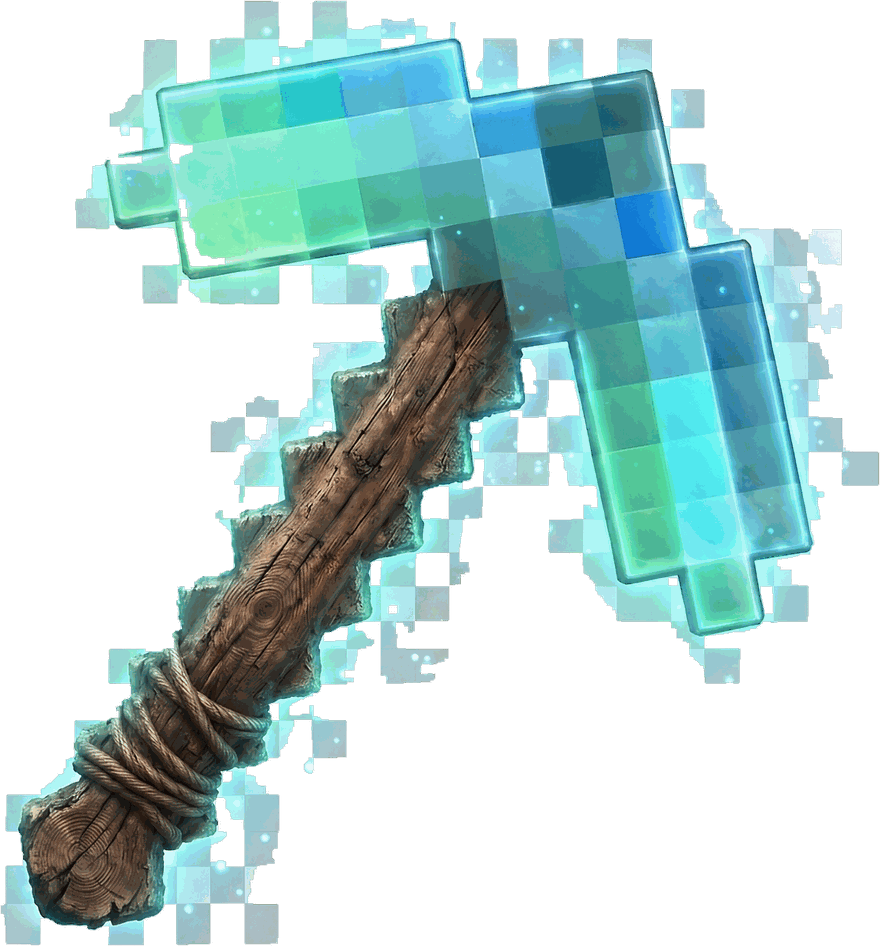
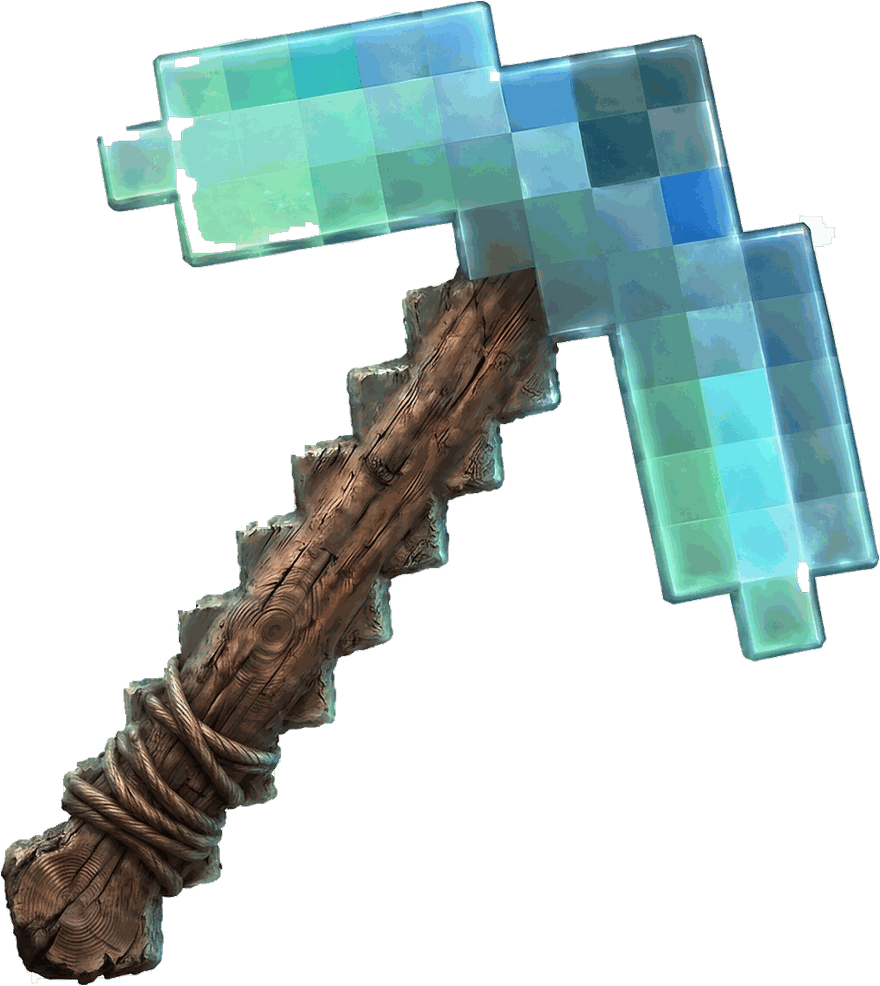
feat(hero): 主图换去光效版（880×986/133KB）+ 同步宽高占位
- pickaxe.png 替换去光效版（无青色辉光雾），PNG256 量化 133.5KB
- index.tsx Hero 主图 width/height 400×430 -> 400×448，消除 CLS 漂移
- AGENTS.md/DESIGN.md/docs/hero-art 主图规格与来源同步
- 本地实机验证：natural 880x986 / attrWH 400x448 / aspectDrift 0 / errors none

diff --git a/app/src/routes/index.tsx b/app/src/routes/index.tsx
@@ -63,7 +63,7 @@ export default component$(() => {
           alt="水晶镐插画"
           class="mc-hero-art justify-self-end"
           width={400}
-          height={430}
+          height={448}
           loading="eager"
           decoding="async"
         />

diff --git a/AGENTS.md b/AGENTS.md
@@ -137,8 +137,10 @@ gh api repos/GuoxinL/guoxin.space/pages/builds/latest --jq '.status'
 - 主题变量：`--violet-*`（主色 `#A053FE`）/ `--sky-*`（强调 `#00B5F1`）/ `--slate-*`（中性 `#293749`）/ `--shadow-*`（偏移阴影）。旧的 `--bg/--surface/--text/--primary/--radius/--shadow` 等为**兼容别名**，Skills / JSON / Running 三页零改动继承皮肤。暗色主题只覆盖变量，不写组件选择器。
 - 字体（本地自托管，无第三方请求）：`app/public/fonts/press-start-2p-latin.woff2`（4.7KB，街机像素显示字，用于 Hero/H1-H3/导航/按钮，CSS 名 `Press Start 2P`）、`app/public/fonts/fusion-pixel-12px-zh_hans.woff2`（661KB，中文标题回退，CSS 名 `Fusion Pixel 12px`）。**正文用系统无衬线**（`--font`），不用像素字；位图图标保留 `image-rendering: pixelated`。
 - 像素图标：`app/src/components/pixel/PixelIcon.tsx`（16×16 网格，纯矩形 path，`shape-rendering: crispEdges`）；终端命令框 `TerminalBox.tsx`（官网同款窗口装饰 + 复制按钮）。新增图标往 `ICONS` 里加，不要引入图标库。
-- **Hero 主图：`app/public/img/pickaxe.png`**（Hero 右侧，`drop-shadow: 6px 6px 0`，`width: clamp(200px,30vw,400px)`）。**这张图不做像素化**——源图是带水晶切面与木纹的精绘素材，早期 `--grid 60` 把 2040px 压成 60 格（信息量仅约 3%）导致发糊，已改回**保真路线**。
-  - 当前规格：880×946（≈2.2× 最大显示宽 400px，覆盖 2x 视网膜），LANCZOS 直缩 + `PIL quantize(colors=256, method=FASTOCTREE)` → **143KB**（未量化 758KB）。
+- **Hero 主图：`app/public/img/pickaxe.png`**（Hero 右侧，`drop-shadow: 6px 6px 0`，`width: clamp(200px,30vw,400px)`）。**这张图不做额外像素化**——源图本身就是像素方块风格（水晶镐头由清晰色块构成），早期 `--grid 60` 把 2040px 压成 60 格（信息量仅约 3%）反而发糊，已改回**保真路线**（LANCZOS 直缩）。
+  - 当前规格：**880×986**（≈2.2× 最大显示宽 400px，覆盖 2x 视网膜），LANCZOS 直缩 + `PIL quantize(colors=256, method=FASTOCTREE)` → **133KB**（未量化 693KB）。
+  - 素材来源：`MC镐子_K2去光效_p3_4K_透明.png`（3840×2160 真 RGBA；**去光效版**，无青色辉光雾）。裁切后 1820×2040，**aspect 0.892**。
+  - ⚠ **换图必须同步 `index.tsx` 的 `width/height`**：它们是 CLS 占位，须匹配真实宽高比。当前 880×986 → 显示宽 400 时 **`width={400} height={448}`**（上一版 880×946 对应 height=430）。计算公式 `height ≈ round(400 × 原图高 / 原图宽)`。
   - 重新出图：`python tools/pixel-art/render-hero-variants.py <源RGBA PNG> --outdir <目录> --hi-width 880 --grids 200,140,60`，会产出 hi / grid200 / grid140 / grid60 四档供比选（`hi` 为推荐档）。
   - 平滑图**不要**给 `.mc-hero-art` 加 `image-rendering: pixelated`（降采样会产生锯齿）；只有真正像素化的素材才加。
   - `pickaxe-src.png` 已删除（旧像素化流程的副产物，且会以 2.9MB 体积混进 `app/public/` 被部署）。

diff --git a/DESIGN.md b/DESIGN.md
@@ -20,7 +20,7 @@
 - 圆角**只保留在交互控件**：按钮 `10px`、终端框 `10px`；容器一律 `0`
 - 高光 = 标题的 **shimmer 流光渐变**（紫 → 天蓝 → 紫，横向平移）
 - Hero **不用面板底色**（V2 去容器化），仅靠 `border-bottom: 1px solid var(--slate-5)` 界定区块；保留绝对定位的旋转装饰图标
-- 背景大图为**透明 PNG 水晶镐插画**（`app/public/img/pickaxe.png`，880×946 / 143KB），Hero 右侧，`drop-shadow: 6px 6px 0`。源图为**像素艺术风格**——4K 原图即块状笔触，缩放到显示尺寸后仍保留像素块观感，这是**原图特征而非渲染锯齿**。**不要**给它加 `image-rendering: pixelated`。
+- 背景大图为**透明 PNG 水晶镐插画**（`app/public/img/pickaxe.png`，880×986 / 133KB，去光效版），Hero 右侧，`drop-shadow: 6px 6px 0`。源图为**像素方块风格**——4K 原图即清晰色块构成，缩放到显示尺寸后仍保留方块观感，这是**原图特征而非渲染锯齿**。**不要**给它加 `image-rendering: pixelated`。
 
 ---
 
@@ -359,7 +359,7 @@ V2：**不再用药丸**。改为「前置 6px 方块 + 字距加宽」的极简
    > 生成 `.mc-nav`：高 64px、`border-bottom: 1.6px solid #BDCEE2`、白底、sticky `z-index: 99999`；导航项圆角 10px、11px 像素字、hover 底 `#E2EEFB`；激活项紫底白字 + `2px 2px 0` 紫阴影。
 
 4. **Hero 区块**
-   > 生成 Hero（V2 去容器化）：**无面板底色、无描边、无阴影、无圆角**，`padding: 48px 0 44px` + `border-bottom: 1px solid var(--slate-5)`，两列 `1fr auto` / `gap: 48px`；左侧 H1 44px Press Start 2P + shimmer 渐变（紫→天蓝→紫横向平移 6s），下方副标题与两个按钮，再下方是终端命令框；右侧透明 PNG 水晶镐插画 `pickaxe.png`（880×946），`drop-shadow: 6px 6px 0`。**不要**给它加 `image-rendering: pixelated`。
+   > 生成 Hero（V2 去容器化）：**无面板底色、无描边、无阴影、无圆角**，`padding: 48px 0 44px` + `border-bottom: 1px solid var(--slate-5)`，两列 `1fr auto` / `gap: 48px`；左侧 H1 44px Press Start 2P + shimmer 渐变（紫→天蓝→紫横向平移 6s），下方副标题与两个按钮，再下方是终端命令框；右侧透明 PNG 水晶镐插画 `pickaxe.png`（880×986），`drop-shadow: 6px 6px 0`。**不要**给它加 `image-rendering: pixelated`。
 
 5. **终端命令框**
    > 生成 `.mc-term`（V2）：深底 `#010B1A`、圆角 10px、**无描边无阴影**（保留深色「窗口」语义即可，深底在浅色背景上已足够成立）；顶部 27px 标题栏 `#D7F1FF` 带三个圆点（红/黄/绿）；命令区等宽字 `#7CE7FF`，提示符天蓝，右侧复制按钮。

diff --git a/docs/hero-art/README.md b/docs/hero-art/README.md
@@ -1,4 +1,4 @@
-# Hero 主图档位存档（2026-09-10）
+# Hero 主图档位存档（2026-09-10 建档 / 2026-09-12 换图）
 
 本目录保存首页 Hero 主图 `app/public/img/pickaxe.png` 的**保真度档位比选产物**，供日后换图时对照参考。
 
@@ -7,14 +7,14 @@
 早期用 `tools/pixel-art/pixelize-alpha-pickaxe.py --grid 60` 把源图（裁切后 1897×2040）压成 60 格，
 每格约 34 个原始像素被平均成 1 块 → **信息量仅剩约 3%**，页面观感即「糊的色块」。
 
-源图是带**水晶切面 + 木纹**的精绘素材，像素化等于抹掉其全部卖点，属把精绘当低像素素材处理的方法论错误。
-已改为**保真路线**。
+源图是**像素方块风格**（水晶镐头由清晰色块构成），再像素化等于把已有方块又降采样一遍，
+属把素材当低像素文件处理的方法论错误。已改为**保真路线**。
 
 ## 档位数据
 
 | 文件 | 档位 | 尺寸 | 体积 | 说明 |
 |---|---|---|---|---|
-| （已上线）`app/public/img/pickaxe.png` | ✅ 已采用 | 880×946 | 143 KB | LANCZOS 直缩 + PNG 256 色量化；细节完整。本目录不再另存副本 |
+| （已上线）`app/public/img/pickaxe.png` | ✅ 已采用 | 880×986 | 133 KB | LANCZOS 直缩 + PNG 256 色量化；细节完整。本目录不再另存副本 |
 | `v-grid200.png` | 备选 | 930×1000 | 75 KB | 块≈10px，保留像素方块感 |
 | `v-grid140.png` | 备选 | 910×980 | 44 KB | 块≈15px |
 | `v-grid60.png` | ❌ 已弃用 | 896×960 | 14 KB | 块≈34px，发糊元凶 |
@@ -28,6 +28,15 @@
 python tools/pixel-art/render-hero-variants.py <源 RGBA PNG> \
   --outdir <输出目录> --hi-width 880 --grids 200,140,60
 ```
+
+## 换图记录
+
+| 日期 | 源图 | 裁切后 | aspect | 产物 | 说明 |
+|---|---|---|---|---|---|
+| 2026-09-10 | `MC镐子_H1优化_k2_4K_透明.png` | 1897×2040 | 0.930 | 880×946 / 143 KB | 初版保真路线（保留青色辉光） |
+| 2026-09-12 | `MC镐子_K2去光效_p3_4K_透明.png` | 1820×2040 | 0.892 | **880×986 / 133 KB** | **去光效版**：无辉光雾、边缘干净；`index.tsx` 宽高同步为 `400×448` |
+
+> **换图三步**：① `render-hero-variants.py --hi-width 880 --grids ""` 出 hi 档 → ② `PIL quantize(colors=256, method=FASTOCTREE)` 量化 → ③ 覆盖 `app/public/img/pickaxe.png`，**并同步 `index.tsx` 的 `width/height`**（CLS 占位，按真实 aspect 计算：`height ≈ round(400 × 原图高 / 原图宽)`）。
 
 ## 取舍要点
 
